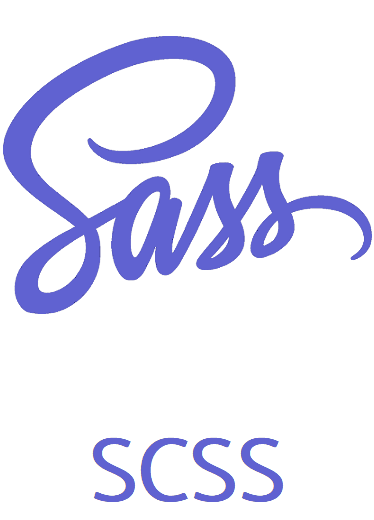
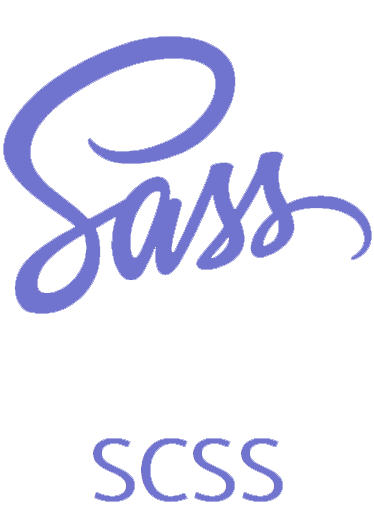
Regular update

diff --git a/src/components/Projects.js b/src/components/Projects.js
@@ -9,41 +9,52 @@ class Projects extends React.Component {
   constructor(props) {
     super(props);
     this.state = {
-      projects: [
+
+      web_apps: [
         {
           title: 'Javascript Calculator',
           tools: ['html', 'css', 'javascript', 'jquery'],
           demo: 'http://ancient-language.surge.sh/',
           code: 'https://github.com/ivan3123708/freeCodeCamp-Front-end-Projects/tree/master/Javascript%20Calculator',
-          img: 'calculator.jpg'
+          img: 'web_apps/calculator.jpg'
         },
         {
           title: 'Pomodoro Clock',
           tools: ['html', 'css', 'bootstrap', 'jquery'],
           demo: 'http://jobless-key.surge.sh/',
           code: 'https://github.com/ivan3123708/freeCodeCamp-Front-end-Projects/tree/master/Pomodoro%20Clock',
-          img: 'pomodoro.jpg'
+          img: 'web_apps/pomodoro.jpg'
         },
         {
           title: 'Random Quote Machine',
           tools: ['html', 'css', 'jquery', 'ajax'],
           demo: 'http://nosy-cause.surge.sh/',
           code: 'https://github.com/ivan3123708/freeCodeCamp-Front-end-Projects/tree/master/Random%20Quote%20Machine',
-          img: 'quotes.jpg'
+          img: 'web_apps/quotes.jpg'
         },
         {
           title: 'Tic Tac Toe',
           tools: ['html', 'css', 'bootstrap', 'jquery'],
           demo: 'http://materialistic-shape.surge.sh/',
           code: 'https://github.com/ivan3123708/freeCodeCamp-Front-end-Projects/tree/master/Tic%20Tac%20Toe',
-          img: 'tic_tac_toe.jpg'
+          img: 'web_apps/tic_tac_toe.jpg'
         },
         {
           title: 'Simon Game',
           tools: ['html', 'css', 'javascript', 'jquery'],
           demo: 'http://cowardly-knowledge.surge.sh/',
           code: 'https://github.com/ivan3123708/freeCodeCamp-Front-end-Projects/tree/master/Simon%20Game',
-          img: 'simon.jpg'
+          img: 'web_apps/simon.jpg'
+        }
+      ],
+
+      css_art: [
+        {
+          title: 'Homer',
+          tools: ['html', 'scss'],
+          demo: 'https://codepen.io/ivan3123708/full/YEOYdO/',
+          code: 'https://codepen.io/ivan3123708/pen/YEOYdO',
+          img: 'css_art/homer.gif'
         }
       ]
     }
@@ -54,18 +65,33 @@ class Projects extends React.Component {
       <div className="projects">
         <h3>WEB APPS</h3>
         <div className="projects-group">
-        {this.state.projects.map((project) => {
+        {this.state.web_apps.map((web_app) => {
           return (
             <Project
-              key={project.title}
-              title={project.title}
-              tools={project.tools}
-              demo={project.demo}
-              code={project.code}
-              img={project.img}
+              key={web_app.title}
+              title={web_app.title}
+              tools={web_app.tools}
+              demo={web_app.demo}
+              code={web_app.code}
+              img={web_app.img}
             />
           );
         })}
+        </div>
+        <h3>CSS ART</h3>
+        <div className="projects-group">
+          {this.state.css_art.map((art) => {
+            return (
+              <Project
+                key={art.title}
+                title={art.title}
+                tools={art.tools}
+                demo={art.demo}
+                code={art.code}
+                img={art.img}
+              />
+            );
+          })}
         </div>
       </div>
     );

diff --git a/src/styles/Home.css b/src/styles/Home.css
@@ -3,7 +3,7 @@
   width: 100%;
   height: 8.5px;
   margin-top: 4.95rem;
-  background: #6062d1;
+  background: #7174cf;
   z-index: 10; }
 
 .home {
@@ -12,7 +12,7 @@
   width: 100%;
   min-height: 100vh;
   margin: 0 auto -3.4rem auto;
-  background: #6062d1;
+  background: #7174cf;
   color: white;
   text-align: center; }
 
@@ -22,13 +22,13 @@
   height: 300px;
   margin: auto;
   top: 10rem;
-  background: #6062d1; }
+  background: none; }
 
 .ring {
   position: absolute;
   width: 300px;
   height: 300px;
-  border: 2px solid #51d6ff;
+  border: 2px solid #75dfff;
   border-radius: 50%; }
 
 .ring-1 {

diff --git a/src/styles/Home.scss b/src/styles/Home.scss
@@ -3,7 +3,7 @@
   width: 100%;
   height: 8.5px;
   margin-top: 4.95rem;
-  background: #6062d1;
+  background: #7174cf;
   z-index: 10;
 }
 
@@ -13,7 +13,7 @@
   width: 100%;
   min-height: 100vh;
   margin: 0 auto -3.4rem auto;
-  background: #6062d1;
+  background: #7174cf;
   color: white;
   text-align: center;
 }
@@ -24,14 +24,14 @@
   height: 300px;
   margin: auto;
   top: 10rem;
-  background: #6062d1;
+  background: none;
 }
 
 .ring {
   position: absolute;
   width: 300px;
   height: 300px;
-  border: 2px solid #51d6ff;
+  border: 2px solid #75dfff;
   border-radius: 50%;
 }
 

diff --git a/src/styles/Contact.css b/src/styles/Contact.css
@@ -46,10 +46,10 @@
   margin-top: 2.5rem;
   padding: .3rem 1.8rem;
   background: white; 
-  color: #6062d1;
+  color: #7174cf;
   font-size: 1.4rem;
   font-family: 'Catamaran';
-  border: .15rem solid #6062d1;
+  border: .15rem solid #7174cf;
   border-radius: .5rem;
   cursor: pointer;
   -webkit-transition: .3s;
@@ -58,7 +58,7 @@
 }
 
 .contact-form button:hover {
-  background: #6062d1;
+  background: #7174cf;
   color: white;
 }
 
@@ -81,7 +81,7 @@
 }
 
 .contact-links a {
-  color: #6062d1;
+  color: #7174cf;
 }
 
 .contact-links i {

diff --git a/src/styles/Project.css b/src/styles/Project.css
@@ -45,9 +45,9 @@
   margin: 0 2rem;
   padding: .3rem 1.8rem;
   background: white;
-  color: #6062d1;
+  color: #7174cf;
   font-size: 1.4rem;
-  border: .15rem solid #6062d1;
+  border: .15rem solid #7174cf;
   border-radius: .5rem;
   cursor: pointer;
   -webkit-transition: .3s;
@@ -56,7 +56,7 @@
 }
 
 .project .buttons a:hover {
-  background: #6062d1;
+  background: #7174cf;
   color: white;
 }
 

diff --git a/src/styles/Header.css b/src/styles/Header.css
@@ -2,7 +2,7 @@
   position: fixed;
   width: 100%;
   top: 0;
-  background: #6062d1;
+  background: #7174cf;
   box-shadow: 0 .3rem .5rem #00000080;
   z-index: 5;
 }
@@ -41,11 +41,11 @@ a:visited {
 }
 
 a:hover {
-  color: #51d6ff;
+  color: #75dfff;
 }
 
 .selected {
-  border-bottom: .4rem solid #51d6ff;
+  border-bottom: .4rem solid #75dfff;
 }
 
 @media (min-width: 40rem) {

diff --git a/src/styles/Projects.css b/src/styles/Projects.css
@@ -7,8 +7,11 @@
 }
 
 .projects h3 {
-  margin: 12rem auto 3rem auto;
   letter-spacing: .3rem;
+}
+
+.projects h3:nth-child(1) {
+  margin: 12rem auto 3rem auto;
 }
 
 .projects-group {
@@ -17,6 +20,5 @@
   flex-wrap: wrap;
   justify-content: space-around;
   padding-bottom: 7rem;
-  border-bottom: 1px solid #00000050;
   text-align: center;
 }

diff --git a/src/styles/Footer.css b/src/styles/Footer.css
@@ -5,7 +5,7 @@
   margin: 0;
   top: 0;
   text-align: center;
-  background: #6062d1;
+  background: #7174cf;
   color: #BDBEEF;
-  border-top: 2px solid #51d6ff;
+  border-top: 2px solid #75dfff;
 }
